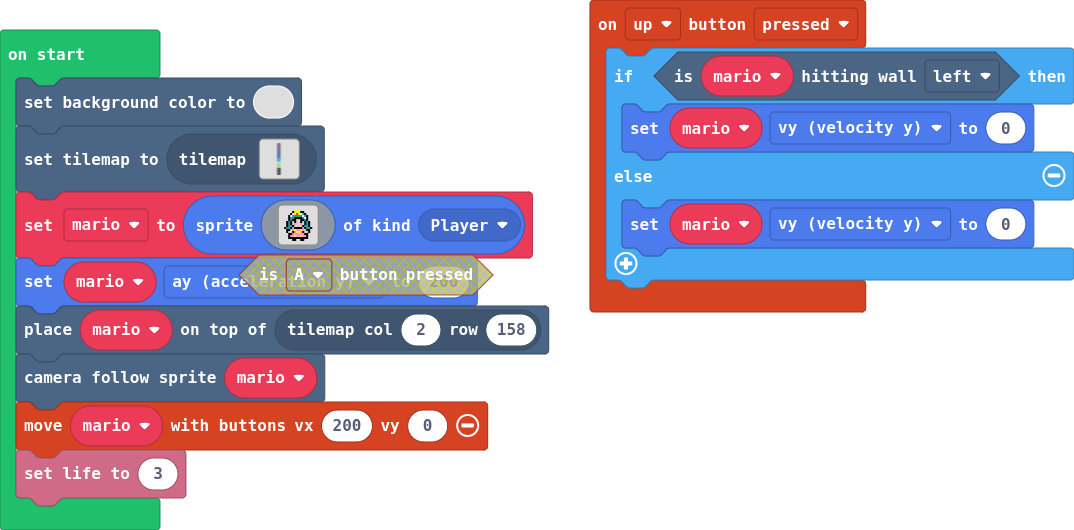
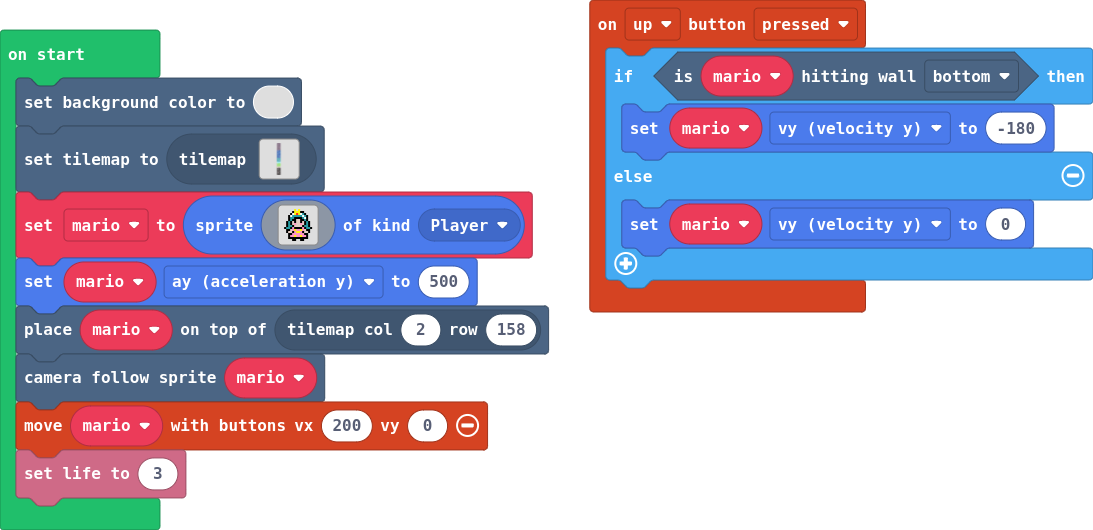
Update pxt.json, main.blocks, main.ts, tilemap.g.jres, tilemap.g.ts

diff --git a/tilemap.g.ts b/tilemap.g.ts
@@ -32,169 +32,6 @@ namespace myTiles {
 . . . . . . . . . . . . . . . . 
 . . . . . . . . . . . . . . . . 
 `, [myTiles.transparency16], TileScale.Sixteen);
-            case "level1":
[1 lines of base64/hex data omitted]
-2222222222222222
-2222222222222222
-2..............2
-2..............2
-2..............2
-2.22222........2
-2..............2
-2..............2
-2..............2
-2.......22222..2
-2..............2
-2..............2
-2..............2
-2..2222........2
-2..............2
-2..............2
-2.........2222.2
-2..............2
-2..............2
-2..2222........2
-2..............2
-2........22222.2
-2..............2
-2..............2
-2..22222.......2
-2..............2
-2..............2
-2..............2
-2........2222..2
-2..............2
-2..............2
-2..............2
-2.....222......2
-2..2222........2
-2..............2
-2..............2
-2.222..........2
-2..............2
-2..............2
-2.....22222....2
-2..............2
-2..............2
-2..2222........2
-2......2.......2
-2......2.......2
-2.......22222..2
-2.............22
-2.............22
-2....2.22..2.2.2
-2..............2
-2.222..........2
-2..............2
-2........222...2
-2..............2
-2..............2
-2..222.........2
-2....22........2
-2..............2
-2.......2......2
-2..............2
-2.......2222...2
-2..............2
-2.....22.....222
-2..............2
-2...2222....22.2
-2......2.......2
-2.......2.22...2
-2..........22..2
-2..............2
-2.......22222222
-2..............2
-2..............2
-2..............2
-2..22222.......2
-2..............2
-2..............2
-2..............2
-2..............2
-2.......2222...2
-2..............2
-2..............2
-2..22222.......2
-2..............2
-2..............2
-2.......22222..2
-2..............2
-2..............2
-2..............2
-2...22222......2
-2..............2
-2..............2
-2..........22..2
-2........22....2
-2..............2
-2..............2
-2..............2
-2..222.........2
-2..............2
-2..............2
-2........22222.2
-2..............2
-2..............2
-2..............2
-2..2222........2
-2..............2
-2..............2
-2.......22222..2
-2..............2
-2....22........2
-2...2..........2
-2..............2
-2..............2
-2..............2
-2......222222..2
-2..............2
-2..............2
-2....222.......2
-2...22.........2
-2..............2
-2..............2
-2..............2
-2.......22222..2
-2..222.........2
-2..............2
-2222...........2
-2...2..........2
-2.....2........2
-2......2222....2
-2.........2....2
-2..2222........2
-2..............2
-2..............2
-2......22222...2
-2......22......2
-2..222.........2
-2..............2
-2.....22.......2
-2..............2
-2..............2
-2........222...2
-2..............2
-2......2.......2
-2..2222........2
-2..............2
-2.......2......2
-2......22222...2
-2.......22.....2
-2....222.......2
-2..............2
-2..2222........2
-2..............2
-2..............2
-2..............2
-2..............2
-2.........2222.2
-2.......2......2
-2..222.2.......2
-2..............2
-2..............2
-2222222222222222
-`, [myTiles.transparency16,sprites.dungeon.darkGroundNorthWest1,sprites.dungeon.floorDark0,sprites.builtin.forestTiles9,sprites.builtin.forestTiles11,sprites.builtin.forestTiles13,sprites.builtin.forestTiles15,sprites.builtin.forestTiles18,sprites.builtin.forestTiles14,sprites.builtin.forestTiles17,sprites.builtin.forestTiles19,sprites.builtin.forestTiles10,sprites.castle.tileGrass3,sprites.castle.tilePath5,sprites.castle.tileGrass1,sprites.castle.tilePath2,myTiles.tile2,myTiles.tile3,myTiles.tile4,myTiles.tile5,sprites.dungeon.darkGroundCenter,sprites.dungeon.floorLight4], TileScale.Sixteen);
             case "level3":
             case "level3":return tiles.createTilemap(hex`1000100000000000000000000000000000000000000000000000000000000000000000000000000000000000000000000000000000000000000000000000000000000000000000000000000000000000000000000000000000000000000000000000000000000000000000000000000000000000000000000000000000000000000000000000000000000000000000000000000000000000000000000000000000000000000000000000000000000000000000000000000000000000000000000000000000000000000000000000000000000000000000000000000000000000000000000000000000000000000000000000000000000000000000000000000000000000`, img`
 . . . . . . . . . . . . . . . . 
@@ -233,6 +70,169 @@ namespace myTiles {
 . . . . . . . . . . . . . . . . 
 . . . . . . . . . . . . . . . . 
 `, [myTiles.transparency16], TileScale.Sixteen);
+            case "level1":
[1 lines of base64/hex data omitted]
+2222222222222222
+2222222222222222
+2..............2
+2..............2
+2..............2
+2.22222..2.....2
+2.......2..2...2
+2.........2....2
+2...2.2........2
+2.2.....22222..2
+2..2...........2
+2...2..........2
+2.........2....2
+2..2222..2.....2
+2..............2
+2.......2......2
+2.....2...2222.2
+2....2.........2
+2..............2
+2..2222....2...2
+2.......2..2...2
+22.......22222.2
+2.2............2
+2.............22
+2..22222.222...2
+2..............2
+2.2..........2.2
+2..............2
+2........2222..2
+2..22..........2
+2..............2
+2.........2....2
+2.....222...2..2
+2..2222....2...2
+2.........2....2
+2........2.....2
+2.222...2......2
+2......2.......2
+22.............2
+2.2...22222....2
+2..2...........2
+2..............2
+2..2222........2
+2......2.......2
+2......2.......2
+2.......22222..2
+2.............22
+2.............22
+2....2.22..2.2.2
+2.......2......2
+2.222....2..2..2
+2..........2...2
+2........222...2
+2.......2......2
+2......2.......2
+2..222.........2
+2....22........2
+2..............2
+2.......2......2
+2..............2
+2.......2222...2
+2..............2
+2.....22.....222
+2..............2
+2...2222....22.2
+2......2.......2
+2.......2.22...2
+2..........22..2
+2..............2
+2.......22222222
+2..............2
+2..............2
+2........22....2
+2..22222....22.2
+2..........2...2
+2.........2....2
+2........2.....2
+2..............2
+2.......2222...2
+2..............2
+2......2.......2
+2..22222.......2
+2..............2
+2.......2......2
+2.......22222..2
+2..............2
+2..........22..2
+2.............22
+2...22222....2.2
+2.........22...2
+2........2.....2
+2......2...22..2
+2....2...22....2
+2..2..........22
+22...........222
+2.2.........2..2
+2..222.....2...2
+2.........2....2
+2......2.......2
+2.....2..22222.2
+2..2222........2
+22.............2
+2.2............2
+2..2222........2
+2..............2
+2..............2
+2.......22222..2
+2.2............2
+2....22........2
+22..2......2...2
+2.......222....2
+222....2.2.....2
+2..............2
+2...22.222222..2
+2.............22
+2222.........2.2
+2....222....2..2
+2...22.....2...2
+2.........2....2
+222.2....2.....2
+2.....2........2
+2.2..2..22222..2
+2..222.........2
+2..............2
+2222...........2
+2...2..........2
+2.....22.......2
+2......2222..2.2
+2...........2..2
+2..2222....2...2
+2.......222....2
+2..............2
+2......22222...2
+2..............2
+2..222.........2
+2..............2
+2.....22.......2
+2......2.2.....2
+2.......2......2
+2........2222..2
+2.............22
+2......2.....2.2
+2..2222...222..2
+2..............2
+22......2......2
+222....2222....2
+2..2....22.....2
+2....222.......2
+2..............2
+2..2222........2
+2......22......2
+2.........22...2
+2........2.....2
+2..............2
+2.........222..2
+2.......2......2
+2..222.2......22
+2.2..........2.2
+2..............2
+2222222222222222
+`, [myTiles.transparency16,sprites.dungeon.darkGroundNorthWest1,sprites.dungeon.floorDark0,sprites.builtin.forestTiles9,sprites.builtin.forestTiles11,sprites.builtin.forestTiles13,sprites.builtin.forestTiles15,sprites.builtin.forestTiles18,sprites.builtin.forestTiles14,sprites.builtin.forestTiles17,sprites.builtin.forestTiles19,sprites.builtin.forestTiles10,sprites.castle.tileGrass3,sprites.castle.tilePath5,sprites.castle.tileGrass1,sprites.castle.tilePath2,myTiles.tile2,myTiles.tile3,myTiles.tile4,myTiles.tile5,sprites.dungeon.darkGroundCenter,sprites.dungeon.floorLight4], TileScale.Sixteen);
         }
         return null;
     })

diff --git a/main.ts b/main.ts
@@ -1,6 +1,6 @@
 controller.up.onEvent(ControllerButtonEvent.Pressed, function () {
-    if (mario.isHittingTile(CollisionDirection.Left)) {
-        mario.vy = 0
+    if (mario.isHittingTile(CollisionDirection.Bottom)) {
+        mario.vy = -180
     } else {
         mario.vy = 0
     }
@@ -26,7 +26,7 @@ mario = sprites.create(img`
     . . . f f f f f f f f f f . . . 
     . . . . . f f . . f f . . . . . 
     `, SpriteKind.Player)
-mario.ay = 200
+mario.ay = 500
 tiles.placeOnTile(mario, tiles.getTileLocation(2, 158))
 scene.cameraFollowSprite(mario)
 controller.moveSprite(mario, 200, 0)
